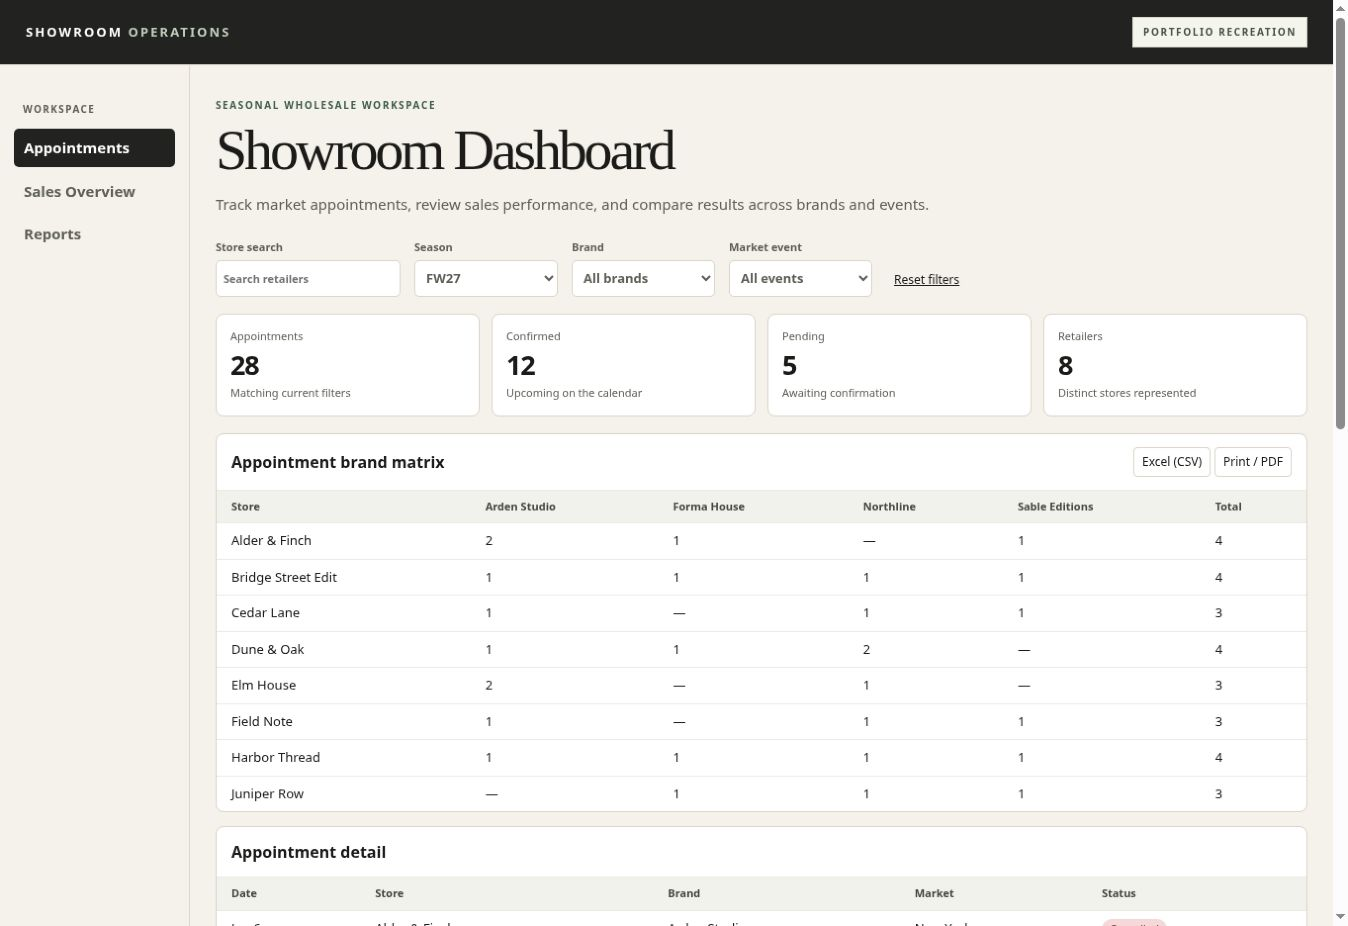
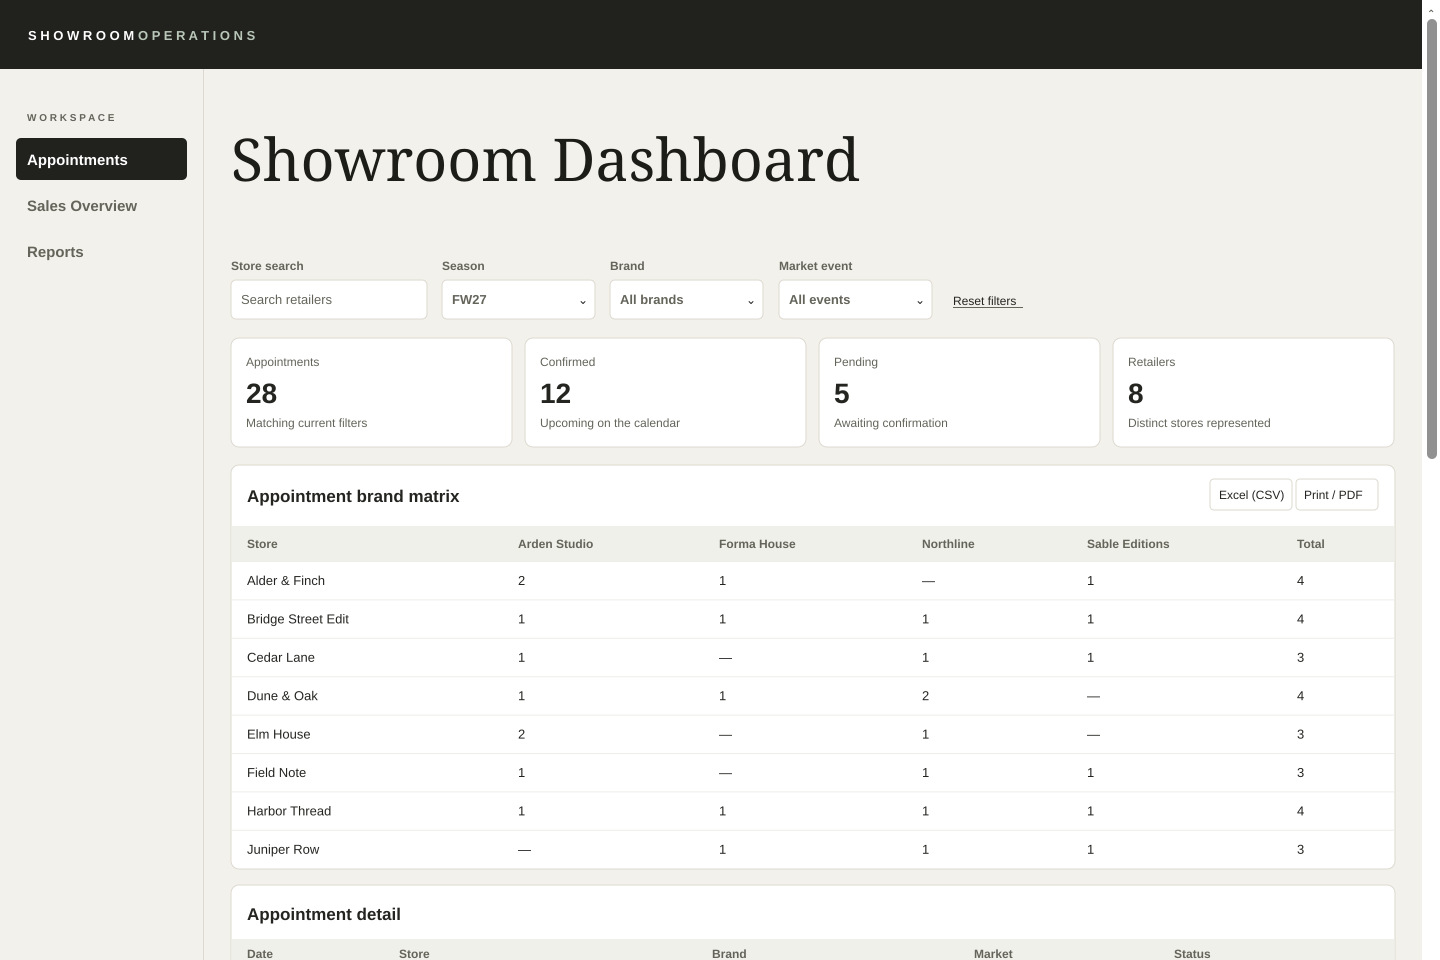
Clean up portfolio screenshots and dashboard headings

diff --git a/index.html b/index.html
@@ -8,7 +8,7 @@
 <title>Systems Portfolio</title>
 <style>
 :root{color-scheme:light;--paper:#f8f5ef;--ink:#211e1a;--muted:#58544c;--line:#c9c2b5;--accent:#8b3e2c;--mono:ui-monospace,Menlo,Consolas,monospace;--serif:Georgia,"Times New Roman",serif;--sans:system-ui,-apple-system,sans-serif}
-*{box-sizing:border-box}body{margin:0;background:var(--paper);color:var(--ink);font:1rem/1.55 var(--sans)}a{color:inherit}a:focus-visible{outline:3px solid #365a78;outline-offset:5px}.frame{width:min(100% - 3rem,70rem);margin-inline:auto}.masthead{border-bottom:1px solid var(--line);padding:1.15rem 0;display:flex;justify-content:space-between;align-items:center;gap:1rem}.index-label,.kicker,.card-number,.note{font:700 .72rem/1.4 var(--mono);letter-spacing:.12em;text-transform:uppercase}.index-label{display:flex;align-items:center;gap:.75rem}.dot{width:.65rem;height:.65rem;border-radius:50%;background:var(--accent)}.masthead .note{color:var(--muted);text-align:right}.hero{padding:clamp(2.75rem,6.5vw,5.5rem) 0 clamp(2rem,4.5vw,3.5rem)}.kicker,.card-number{color:var(--accent);margin:0 0 .8rem}.hero h1{margin:0;font:400 clamp(2.6rem,7.4vw,6rem)/1 var(--serif);letter-spacing:-.065em}.hero h1 span{display:block}.hero p:last-child{margin:0 0 .18rem;max-width:27ch;color:var(--muted);font-size:1.03rem}.projects{display:grid;grid-template-columns:repeat(2,minmax(0,1fr));gap:1px;background:var(--line);border:1px solid var(--line)}.project{display:flex;flex-flow:column;background:var(--paper);min-width:0}.card-content{padding:clamp(1.15rem,3.6vw,2rem);display:flex;flex:1;flex-flow:column;align-items:flex-start}.project h2{margin:0;font:400 clamp(1.9rem,4vw,3.2rem)/1.02 var(--serif);letter-spacing:-.04em}.project p:not(.card-number){color:var(--muted);margin:.85rem 0 1.25rem;max-width:44ch}.preview-figure{margin:0;padding:.9rem .9rem .75rem;background:#ebe6dc;border-bottom:1px solid var(--line)}.visual{display:block;aspect-ratio:3/2;width:100%;height:auto;object-fit:cover;object-position:top;border:1px solid var(--line);border-radius:.2rem;background:#f4f0e8}.preview-figure figcaption{margin-top:.55rem;color:var(--muted);font-size:.76rem}.project-link{margin-top:auto;display:inline-flex;align-items:center;gap:1rem;min-height:44px;text-decoration:none;font-weight:720;padding:.1rem 0}.project-link span:first-child{border-bottom:1px solid var(--accent)}.project-link:hover{color:var(--accent)}.extra-views{width:100%;margin:.3rem 0 1rem}.extra-views summary{cursor:pointer;font-weight:700;min-height:44px;display:list-item;padding:.6rem 0}.extra-views figure{margin:0 0 .75rem}.extra-views img{width:100%;height:auto;display:block;border:1px solid var(--line);border-radius:.2rem}.extra-views figcaption{font-size:.78rem;color:var(--muted);margin-top:.35rem}.arrow{font-size:1.2rem;color:var(--accent)}.closing{display:flex;justify-content:space-between;align-items:baseline;gap:1rem;border-top:1px solid var(--line);margin-top:clamp(2rem,5vw,3.75rem);padding:1rem 0 1.8rem;color:var(--muted);font-size:.8rem}.closing .note{margin:0}.closing p:last-child{margin:0;text-align:right}
+*{box-sizing:border-box}body{margin:0;background:var(--paper);color:var(--ink);font:1rem/1.55 var(--sans)}a{color:inherit}a:focus-visible{outline:3px solid #365a78;outline-offset:5px}.frame{width:min(100% - 3rem,70rem);margin-inline:auto}.masthead{border-bottom:1px solid var(--line);padding:1.15rem 0;display:flex;justify-content:space-between;align-items:center;gap:1rem}.index-label,.kicker,.card-number,.note{font:700 .72rem/1.4 var(--mono);letter-spacing:.12em;text-transform:uppercase}.index-label{display:flex;align-items:center;gap:.75rem}.dot{width:.65rem;height:.65rem;border-radius:50%;background:var(--accent)}.masthead .note{color:var(--muted);text-align:right}.hero{padding:clamp(2.75rem,6.5vw,5.5rem) 0 clamp(2rem,4.5vw,3.5rem)}.kicker,.card-number{color:var(--accent);margin:0 0 .8rem}.hero h1{margin:0;font:400 clamp(2.6rem,7.4vw,6rem)/1 var(--serif);letter-spacing:-.065em}.hero h1 span{display:block}.hero p:last-child{margin:0 0 .18rem;max-width:27ch;color:var(--muted);font-size:1.03rem}.projects{display:grid;grid-template-columns:repeat(2,minmax(0,1fr));gap:1px;background:var(--line);border:1px solid var(--line)}.project{display:flex;flex-flow:column;background:var(--paper);min-width:0}.card-content{padding:clamp(1.15rem,3.6vw,2rem);display:flex;flex:1;flex-flow:column;align-items:flex-start}.project h2{margin:0;font:400 clamp(1.9rem,4vw,3.2rem)/1.02 var(--serif);letter-spacing:-.04em}.project p:not(.card-number){color:var(--muted);margin:.85rem 0 1.25rem;max-width:44ch}.preview-figure{margin:0;padding:.9rem .9rem .75rem;background:#ebe6dc;border-bottom:1px solid var(--line)}.visual{display:block;aspect-ratio:3/2;width:100%;height:auto;object-fit:cover;object-position:top;border:1px solid var(--line);border-radius:.2rem;background:#f4f0e8}.preview-figure figcaption{margin-top:.55rem;color:var(--muted);font-size:.76rem}.project-link{margin-top:auto;display:inline-flex;align-items:center;gap:1rem;min-height:44px;text-decoration:none;font-weight:720;padding:.1rem 0}.project-link span:first-child{border-bottom:1px solid var(--accent)}.project-link:hover{color:var(--accent)}.extra-views{width:100%;margin:.3rem 0 1rem}.extra-views summary{cursor:pointer;font-size:10pt;font-weight:700;min-height:44px;display:list-item;padding:.6rem 0}.extra-views figure{margin:0 0 .75rem}.extra-views img{width:100%;height:auto;display:block;border:1px solid var(--line);border-radius:.2rem}.extra-views figcaption{font-size:.78rem;color:var(--muted);margin-top:.35rem}.arrow{font-size:1.2rem;color:var(--accent)}.closing{display:flex;justify-content:space-between;align-items:baseline;gap:1rem;border-top:1px solid var(--line);margin-top:clamp(2rem,5vw,3.75rem);padding:1rem 0 1.8rem;color:var(--muted);font-size:.8rem}.closing .note{margin:0}.closing p:last-child{margin:0;text-align:right}
 @media(max-width:43rem){.hero{grid-template-columns:1fr;align-items:start;gap:1.2rem}.hero p:last-child{max-width:34ch}.projects{grid-template-columns:1fr}}
 @media(max-width:24rem){.frame{width:calc(100% - 2rem)}.masthead .note,.index-label,.note{font-size:.63rem}.closing{flex-direction:column;gap:.45rem}.closing p:last-child{text-align:left}.hero h1{font-size:2.6rem}}
 .prospect{margin-top:clamp(1.4rem,4vw,2.6rem);display:grid;grid-template-columns:minmax(0,1fr) minmax(0,1.05fr);gap:clamp(1.25rem,4vw,3.5rem);border:1px solid var(--line);padding:clamp(1.25rem,4vw,2.1rem)}.prospect h2{margin:0;font:400 clamp(1.9rem,4vw,3.2rem)/1.02 var(--serif);letter-spacing:-.04em}.prospect p:not(.card-number){margin:.85rem 0 0;color:var(--muted);max-width:52ch}.formats{list-style:none;margin:0;padding:0}.formats li{padding:.65rem 0;border-top:1px solid var(--line)}.formats li:last-child{border-bottom:1px solid var(--line)}.formats strong,.formats span{display:block}.formats span{font-size:.9rem;color:var(--muted)}@media(max-width:43rem){.prospect{grid-template-columns:1fr}}
@@ -38,7 +38,7 @@ html{background:var(--canvas)}body{background:var(--paper);width:min(76rem,calc(
   <section class="projects" aria-label="Portfolio projects">
     <article class="project">
       <figure class="preview-figure">
-        <img class="visual" src="dashboard.jpg" width="1440" height="960" alt="Dashboard showing an appointment matrix with account, product line, and time filters." decoding="async">
+        <img class="visual" src="dashboard.jpg?v=clean" width="1440" height="960" alt="Dashboard showing an appointment matrix with account, product line, and time filters." decoding="async">
         <figcaption>Appointment matrix</figcaption>
       </figure>
       <div class="card-content"><h2>Dashboard</h2>
@@ -55,7 +55,7 @@ html{background:var(--canvas)}body{background:var(--paper);width:min(76rem,calc(
     </article>
     <article class="project">
       <figure class="preview-figure">
-        <img class="visual" src="invoice-tracker.jpg" width="1440" height="960" alt="Invoice tracker showing example records and payment statuses." decoding="async">
+        <img class="visual" src="invoice-tracker.jpg?v=clean" width="1440" height="960" alt="Invoice tracker showing example records and payment statuses." decoding="async">
         <figcaption>Invoice and payment status views</figcaption>
       </figure>
       <div class="card-content"><h2>Invoice Tracker</h2>
